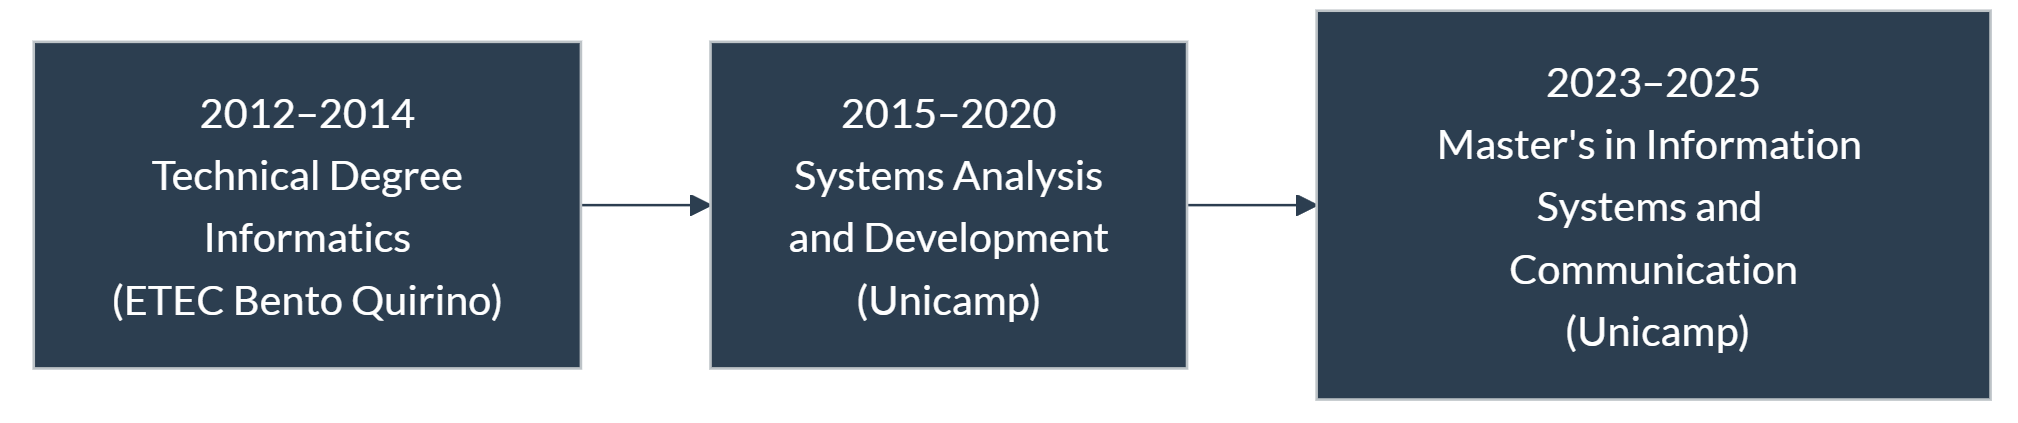
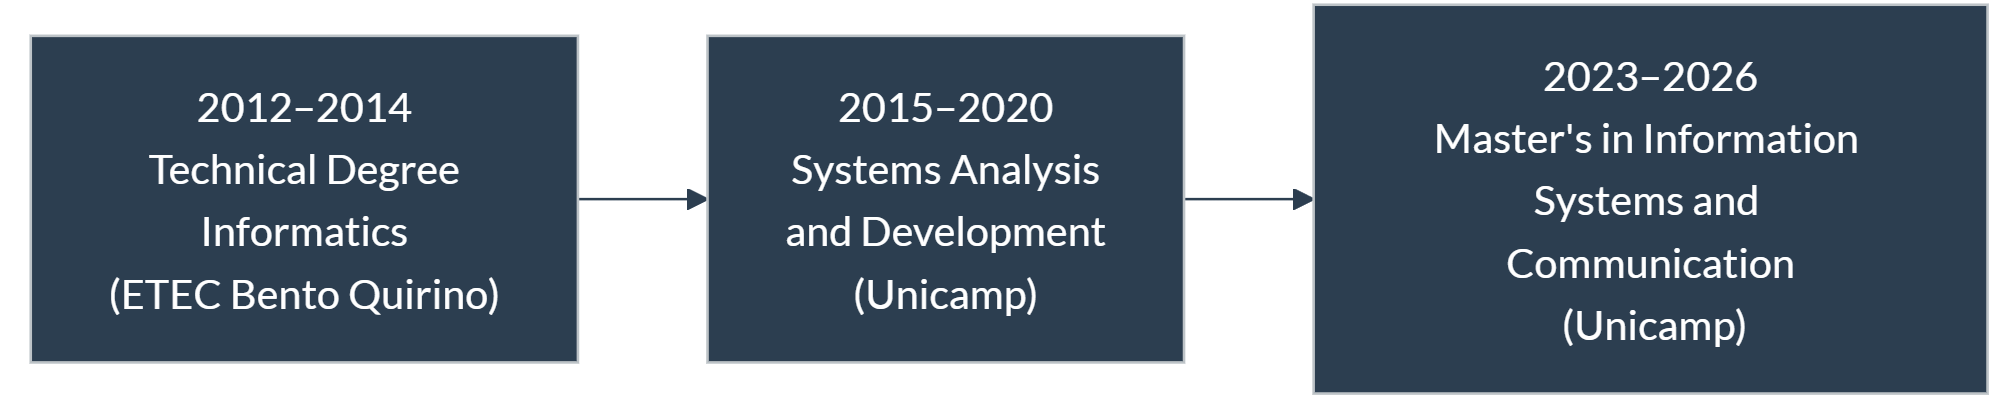
Update academic timeline diagram and correct typo in portfolio deck impact description for clarity.

diff --git a/portfolio/portfolio-deck.md b/portfolio/portfolio-deck.md
@@ -502,7 +502,7 @@ table thead { display: none !important; }
 | --------- | ----- |
 | Name | Eduardo M. de A. Figueiredo |
 | Role | Research, Technology & Project Management |
-| Impact | I help teams govern better and improve faster, using research to prioritize, cide, and deliver with clear data and accountability. |
+| Impact | I help teams govern better and improve faster, using research to prioritize, decide, and deliver with clear data and accountability. |
 | Contact | Nova Odessa, SP – Brazil · edu.evangelista.figueiredo@gmail.com · www.linkedin.com/in/eduardo-matos-de-assis-figueiredo-b10b408b / +55 19 98176-658 |
 
 <p class="photo-at-bottom"><img src="../pictures/personal/my-photo-rectangle.png" alt="Eduardo Figueiredo" /></p>  

diff --git a/portfolio/mermaid/diagrams.md b/portfolio/mermaid/diagrams.md
@@ -42,7 +42,7 @@ flowchart LR
 flowchart LR
   A["2012–2014<br/>Technical Degree<br/>Informatics<br/>(ETEC Bento Quirino)"]
   B["2015–2020<br/>Systems Analysis<br/>and Development<br/>(Unicamp)"]
-  C["2023–2025<br/>Master's in Information Systems and Communication<br/> (Unicamp)"]
+  C["2023–2026<br/>Master's in Information Systems and Communication<br/> (Unicamp)"]
   A --> B --> C
 ```
 
